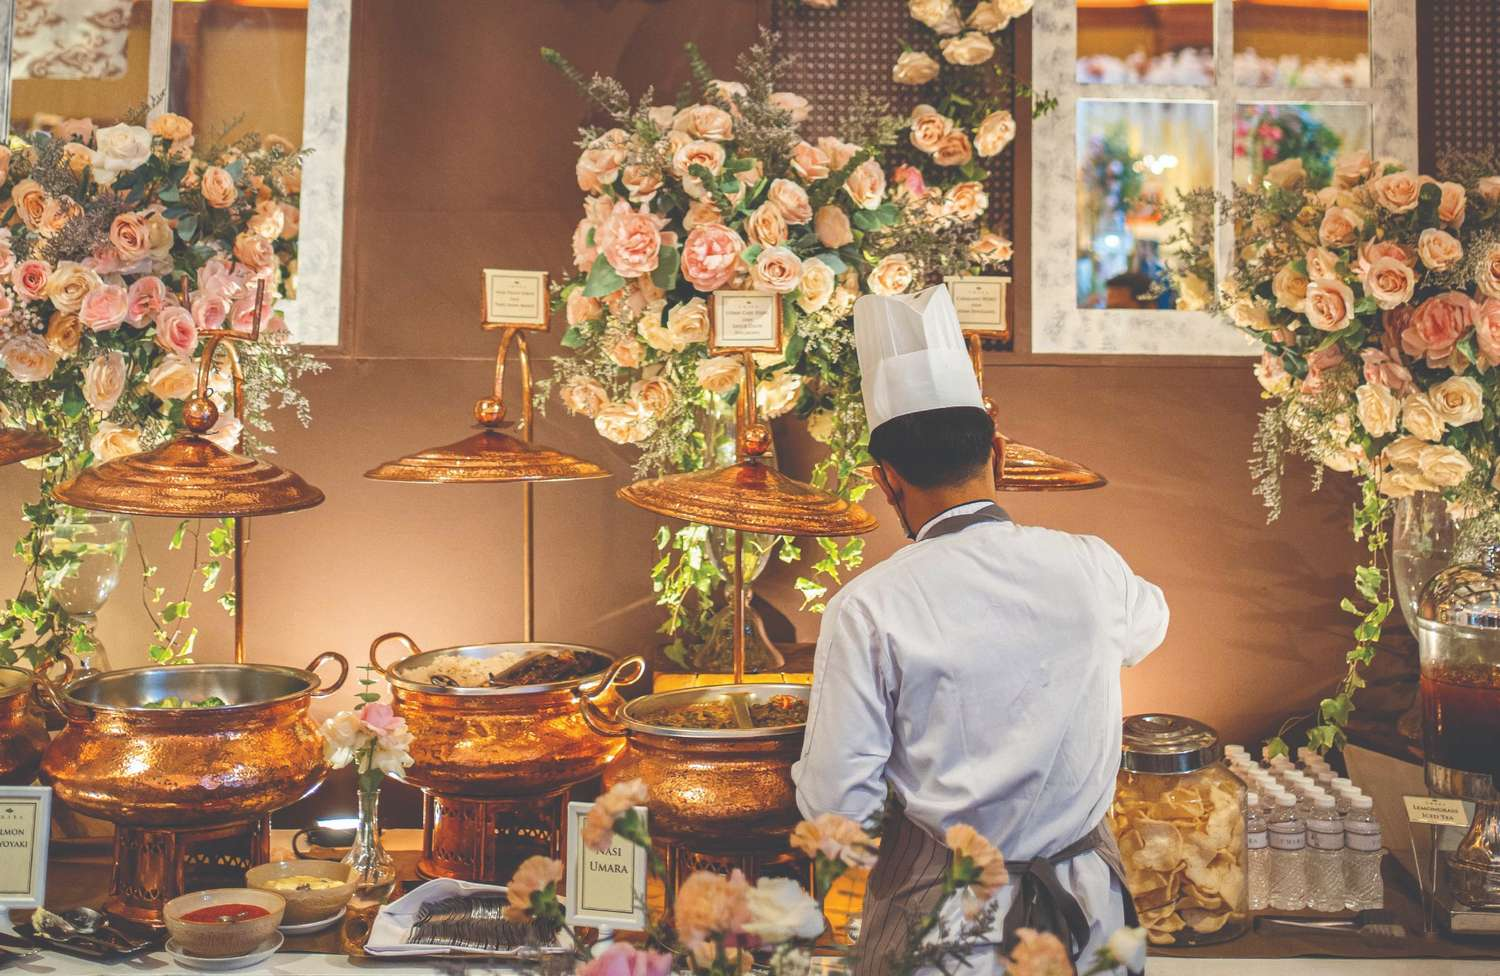
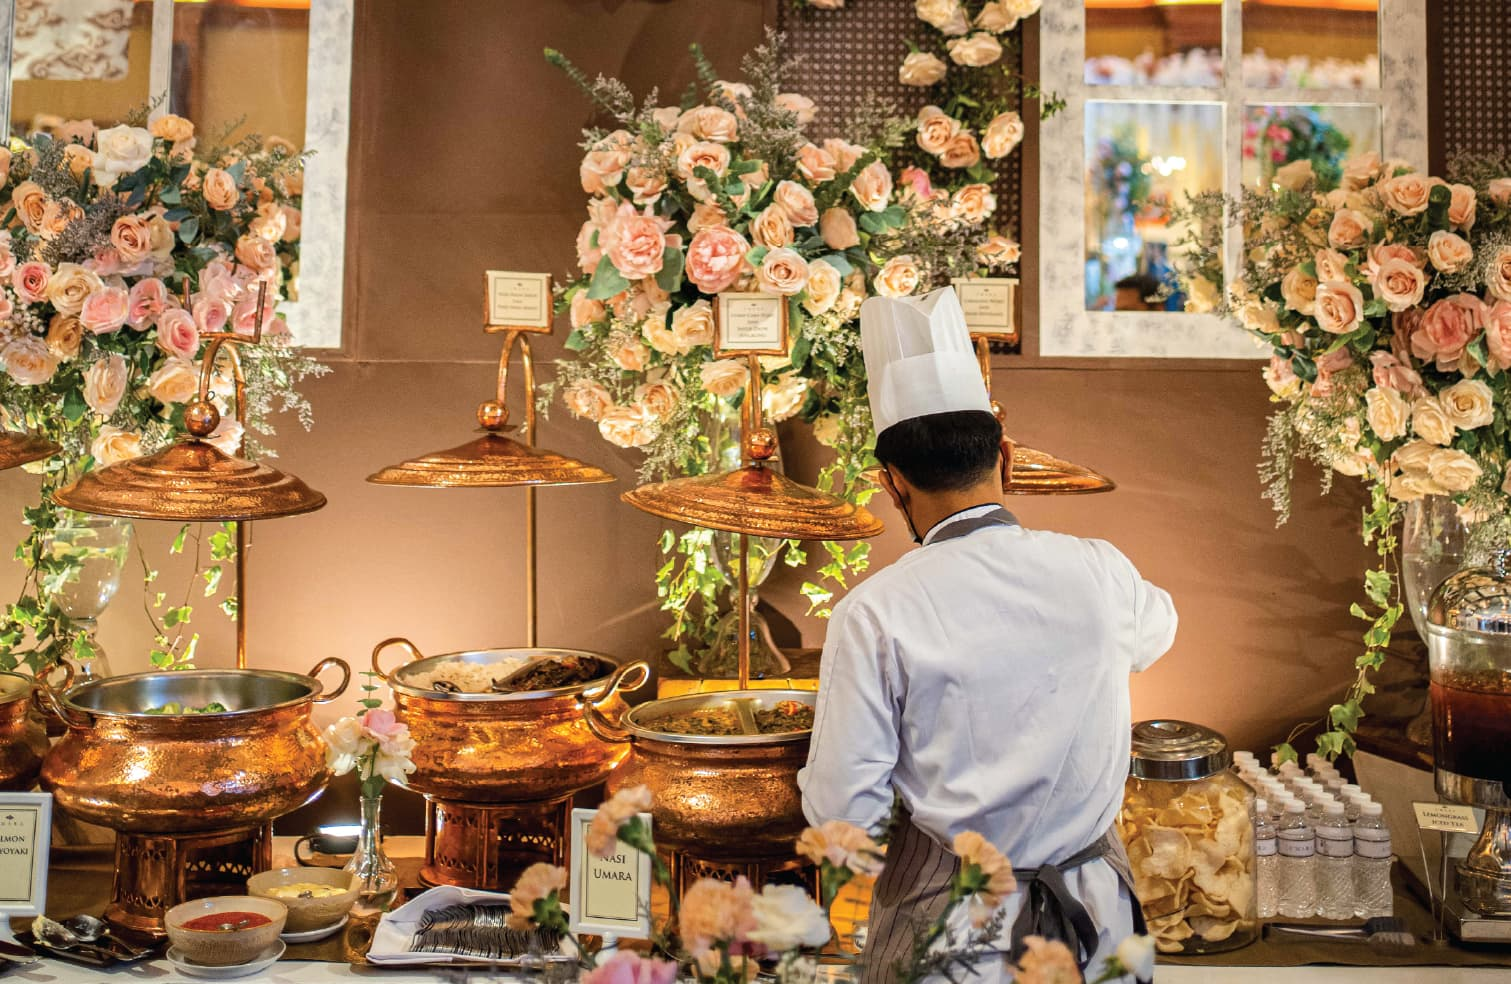
update images for website ucr

diff --git a/umara-catering/gallery-umara.html b/umara-catering/gallery-umara.html
@@ -271,21 +271,21 @@
             </div>
             <div class="container-wide">
                 <div class="columns-1 sm:columns-2 lg:columns-3 xl:columns-3 gap-4" data-gallery-group="asian">
-                    <div class="mb-4" style="break-inside: avoid"><img class="w-full h-auto object-cover" src="../public/assets/ucr/signature-dish/Canape banyak.JPG" alt="Asian 1"></div>
-                    <div class="mb-4" style="break-inside: avoid"><img class="w-full h-auto object-cover" src="../public/assets/ucr/signature-dish/Cheese wheel pasta.jpg" alt="Asian 2"></div>
-                    <div class="mb-4" style="break-inside: avoid"><img class="w-full h-auto object-cover" src="../public/assets/ucr/signature-dish/Chicken Teriyajki Ricle Bowl.jpg" alt="Asian 3"></div>
-                    <div class="mb-4" style="break-inside: avoid"><img class="w-full h-auto object-cover" src="../public/assets/ucr/signature-dish/Creps de Suzet.jpg" alt="Asian 4"></div>
-                    <div class="mb-4" style="break-inside: avoid"><img class="w-full h-auto object-cover" src="../public/assets/ucr/signature-dish/Empal Gentong.jpg" alt="Asian 5"></div>
-                    <div class="mb-4" style="break-inside: avoid"><img class="w-full h-auto object-cover" src="../public/assets/ucr/signature-dish/Es Oyen.jpg" alt="Asian 7"></div>
-                    <div class="mb-4" style="break-inside: avoid"><img class="w-full h-auto object-cover" src="../public/assets/ucr/signature-dish/Es-pisang-ijo.jpeg" alt="Asian 8"></div>
-                    <div class="mb-4" style="break-inside: avoid"><img class="w-full h-auto object-cover" src="../public/assets/ucr/signature-dish/Mix-bbq.jpg" alt="Asian 9"></div>
-                    <div class="mb-4" style="break-inside: avoid"><img class="w-full h-auto object-cover" src="../public/assets/ucr/signature-dish/Nasi Liwet Keprabon.png" alt="Asian 10"></div>
-                    <div class="mb-4" style="break-inside: avoid"><img class="w-full h-auto object-cover" src="../public/assets/ucr/signature-dish/Nasi Umara.jpg" alt="Asian 11"></div>
-                    <div class="mb-4" style="break-inside: avoid"><img class="w-full h-auto object-cover" src="../public/assets/ucr/signature-dish/Osokayaki.png" alt="Asian 12"></div>
-                    <div class="mb-4" style="break-inside: avoid"><img class="w-full h-auto object-cover" src="../public/assets/ucr/signature-dish/Pandan Telaga Aren.jpg" alt="Asian 13"></div>
-                    <div class="mb-4" style="break-inside: avoid"><img class="w-full h-auto object-cover" src="../public/assets/ucr/signature-dish/Roasted Duck Noodle.jpg" alt="Asian 14"></div>
-                    <div class="mb-4" style="break-inside: avoid"><img class="w-full h-auto object-cover" src="../public/assets/ucr/signature-dish/Salmon mayoyaki.png" alt="Asian 15"></div>
-                    <div class="mb-4" style="break-inside: avoid"><img class="w-full h-auto object-cover" src="../public/assets/ucr/signature-dish/zuppa-soup.jpg" alt="Asian 16"></div>
+                    <div class="mb-4" style="break-inside: avoid"><img class="w-full h-auto object-cover" src="../public/assets/ucr/signature-dish2/Canape banyak.JPG" alt="Asian 1"></div>
+                    <div class="mb-4" style="break-inside: avoid"><img class="w-full h-auto object-cover" src="../public/assets/ucr/signature-dish2/Cheese wheel pasta.jpg" alt="Asian 2"></div>
+                    <div class="mb-4" style="break-inside: avoid"><img class="w-full h-auto object-cover" src="../public/assets/ucr/signature-dish2/Chicken Teriyaki Rice Bowl.jpg" alt="Asian 3"></div>
+                    <div class="mb-4" style="break-inside: avoid"><img class="w-full h-auto object-cover" src="../public/assets/ucr/signature-dish2/Creps de Suzet.jpg" alt="Asian 4"></div>
+                    <div class="mb-4" style="break-inside: avoid"><img class="w-full h-auto object-cover" src="../public/assets/ucr/signature-dish2/Empal Gentong.jpg" alt="Asian 5"></div>
+                    <div class="mb-4" style="break-inside: avoid"><img class="w-full h-auto object-cover" src="../public/assets/ucr/signature-dish2/Es Oyen.jpg" alt="Asian 6"></div>
+                    <div class="mb-4" style="break-inside: avoid"><img class="w-full h-auto object-cover" src="../public/assets/ucr/signature-dish2/nasi liwet keprabon.jpg" alt="Asian 7"></div>
+                    <div class="mb-4" style="break-inside: avoid"><img class="w-full h-auto object-cover" src="../public/assets/ucr/signature-dish2/nasi umara.jpg" alt="Asian 8"></div>
+                    <div class="mb-4" style="break-inside: avoid"><img class="w-full h-auto object-cover" src="../public/assets/ucr/signature-dish2/osokoyaki.jpg" alt="Asian 9"></div>
+                    <div class="mb-4" style="break-inside: avoid"><img class="w-full h-auto object-cover" src="../public/assets/ucr/signature-dish2/pandan telaga aren.jpg" alt="Asian 10"></div>
+                    <div class="mb-4" style="break-inside: avoid"><img class="w-full h-auto object-cover" src="../public/assets/ucr/signature-dish2/Roasted Duck Noodle.jpg" alt="Asian 11"></div>
+                    <div class="mb-4" style="break-inside: avoid"><img class="w-full h-auto object-cover" src="../public/assets/ucr/signature-dish2/salmon mayoyaki.jpg" alt="Asian 12"></div>
+                    <div class="mb-4" style="break-inside: avoid"><img class="w-full h-auto object-cover" src="../public/assets/ucr/signature-dish2/zuppa soup.jpg" alt="Asian 13"></div>
+                    <div class="mb-4" style="break-inside: avoid"><img class="w-full h-auto object-cover"src="../public/assets/ucr/signature-dish2/Es-pisang-ijo.png" alt="Asian 14"></div>
+                    <div class="mb-4" style="break-inside: avoid"><img class="w-full h-auto object-cover"src="../public/assets/ucr/signature-dish2/mix-bbq.png" alt="Asian 15"></div>
                 </div>
             </div>
         </section>
@@ -418,6 +418,26 @@
         imgEl.addEventListener('touchstart', function(e){ if(!e.changedTouches || !e.changedTouches[0]) return; sx = e.changedTouches[0].clientX; });
         imgEl.addEventListener('touchend', function(e){ if(!e.changedTouches || !e.changedTouches[0]) return; var dx = e.changedTouches[0].clientX - sx; if(Math.abs(dx) > 30){ if(dx < 0) next(); else prev(); } });
         Array.from(root.querySelectorAll('[data-gallery-group] img')).forEach(function(i){ i.style.cursor = 'zoom-in'; });
+    })();
+    (function(){
+        var root = document.getElementById('photo-gallery');
+        if(!root) return;
+        Array.from(root.querySelectorAll('[data-gallery-group] > div')).forEach(function(container){
+            var img = container.querySelector('img');
+            if(!img) return;
+            var src = img.getAttribute('src') || '';
+            var name = src.split('/').pop();
+            try{ name = decodeURIComponent(name); }catch(e){}
+            name = name.replace(/\.[^.]+$/, '');
+            name = name.replace(/[_-]+/g, ' ').trim();
+            var title = name || (img.getAttribute('alt') || '');
+            if(!title) return;
+            container.style.position = 'relative';
+            var cap = document.createElement('div');
+            cap.className = 'absolute left-0 bottom-0 pointer-events-none bg-black/50 text-white px-3 py-2 text-sm sm:text-base';
+            cap.textContent = title;
+            container.appendChild(cap);
+        });
     })();
     </script>
 </body>

diff --git a/umara-catering/wedding-umara.html b/umara-catering/wedding-umara.html
@@ -267,7 +267,7 @@
         <section id="hero" class="hero-card">
             <div class="container-hero-fluid">
                 <div class="hero-media">
-                    <img src="../public/assets/ucr/UCR-WEB/wedding-hero-img.png" alt="Wedding" class="h-auto w-full">
+                    <img src="../public/assets/ucr/UCR-WEB/wedding-hero-img.jpg" alt="Wedding" class="h-auto w-full">
                 </div>
             </div>
             <div class="container-wide">
@@ -303,15 +303,15 @@
                 <div id="venueTrack" class="flex gap-4 transition-transform duration-500 ease-[cubic-bezier(.22,.61,.36,1)] will-change-transform">
                     <div class="flex-none w-[86vw] sm:w-[70vw] lg:w-[44vw]">
                         <div class="relative h-[56.25vw] sm:h-[40vw] lg:h-[28vw] overflow-hidden">
-                            <img class="absolute inset-0 w-full h-full object-cover transition-transform duration-500" src="../public/assets/vector/image-sample.png" alt="Venue 1">
+                            <img class="absolute inset-0 w-full h-full object-cover transition-transform duration-500" src="../public/assets/ucr/UCR-WEB/wedding/highlight-moments1.png" alt="Venue 1">
                         </div>
-                        <p class="text-gray-600 mt-2">Grand ballroom setup</p>
+                        <p class="text-gray-600 mt-2"><a href="#">📍 Menara Danareksa</a></p>
                     </div>
                     <div class="flex-none w-[86vw] sm:w-[70vw] lg:w-[44vw]">
                         <div class="relative h-[56.25vw] sm:h-[40vw] lg:h-[28vw] overflow-hidden">
-                            <img class="absolute inset-0 w-full h-full object-cover transition-transform duration-500" src="../public/assets/vector/image-sample.png" alt="Venue 2">
+                            <img class="absolute inset-0 w-full h-full object-cover transition-transform duration-500" src="../public/assets/ucr/UCR-WEB/wedding/highlight-moments2.png" alt="Venue 2">
                         </div>
-                        <p class="text-gray-600 mt-2">Intimate garden ceremony</p>
+                        <p class="text-gray-600 mt-2"><a href="#" target="_blank">📍 Musem Macan</a></p>
                     </div>
                     <div class="flex-none w-[86vw] sm:w-[70vw] lg:w-[44vw]">
                         <div class="relative h-[56.25vw] sm:h-[40vw] lg:h-[28vw] overflow-hidden">
@@ -348,11 +348,11 @@
             </div>
         </section>
 
-        <section id="wedding-venues" class="py-[72px] bg-[#e1d6a5]">
+        <section id="wedding-venues" class="py-[72px] bg-[#fffdee]">
             <div class="container-wide venue">
                 <div class="grid grid-cols-1 md:grid-cols-2 gap-8">
                     <div>
-                        <img src="../public/assets/vector/image-sample.png" alt="Wedding Venue" class="w-full h-auto rounded-lg shadow-lg object-cover">
+                        <img src="../public/assets/ucr/UCR-WEB/wedding/wedding-venue.png" alt="Wedding Venue" class="w-full h-auto rounded-lg shadow-lg object-cover">
                     </div>
                     <div>
                         <h3 class="title headline mb-4">Wedding Venues</h3>
@@ -369,7 +369,7 @@
                         wedding unfolds with sentiment, clarity, and effortless elegance.</p>
                     </div>
                     <div>
-                        <img src="../public/assets/vector/image-sample.png" alt="Wedding Venue" class="w-full h-auto rounded-lg shadow-lg object-cover">
+                        <img src="../public/assets/ucr/UCR-WEB/wedding/wedding-advisor.png" alt="Wedding Venue" class="w-full h-auto rounded-lg shadow-lg object-cover">
                     </div>
                 </div>
             </div>
@@ -477,10 +477,10 @@
   var i = L; // start at first of middle set
   var isAnimating = false;
   function setActive(){
-    items.forEach(function(el,idx){
+    items.forEach(function(el){
       var img = el.querySelector('img');
       if(!img) return;
-      img.style.transform = idx===i ? 'scale(2)' : 'scale(1)';
+      img.style.transform = 'scale(1)';
     });
   }
   function center(animated){

diff --git a/ptumaraciptarasa.html b/ptumaraciptarasa.html
@@ -151,10 +151,10 @@
                                 <img src="public/assets/ucr/authentic-recipes/Nasi-Umara-Horizontal.jpg" alt="Premium Ambiance">
                             </div>
                             <div class="slider-item">
-                                <img src="public/assets/ucr/UCR-WEB/pageoverviewslider1536x1024.jpg" alt="Wedding Ambiance">
+                                <img src="public/assets/ucr/UCR-WEB/wedding-hero-img.jpg" alt="Wedding Ambiance">
                             </div>
                             <div class="slider-item">
-                                <img src="public/assets/ucr/UCR-WEB/sectionslider31536x1024.jpg" alt="Meeting Ambiance">
+                                <img src="public/assets/ucr/UCR-WEB/mealbox experience 725x472-04.jpg" alt="Meeting Ambiance">
                             </div>
                             <div class="hero-overlay"></div>
                             <div class="hero-text">
@@ -214,7 +214,7 @@
                         </div>
                     </div>
                     <div class="card" id="meeting">
-                        <div class="card-media"><img src="public/assets/ucr/UCR-WEB/meeting experience 725x472-05.jpg" alt="Meeting"></div>
+                        <div class="card-media"><img src="public/assets/ucr/UCR-WEB/meeting experience 725x472-05.webp" alt="Meeting"></div>
                         <div class="card-body">
                             <h3 style="font-weight:700;color:#111827">Meeting</h3>
                             <p style="color:#6B7280;margin-top:6px">Professional meeting experiences with curated menus and seamless coordination.</p>
@@ -231,7 +231,7 @@
                         </div>
                     </div>
                     <div class="card" id="mealbox">
-                        <div class="card-media"><img src="public/assets/ucr/UCR-WEB/mealbox experience 725x472-04.jpg" alt="Mealbox"></div>
+                        <div class="card-media"><img src="public/assets/ucr/UCR-WEB/mealbox experience 725x472-04.webp" alt="Mealbox"></div>
                         <div class="card-body">
                             <h3 style="font-weight:700;color:#111827">Mealbox</h3>
                             <p style="color:#6B7280;margin-top:6px">High-quality meal solutions crafted for corporate needs and daily operations.</p>
@@ -256,15 +256,15 @@
                 <div class="slider" data-autoplay="true" data-interval="5000">
                     <div class="slider-stage">
                         <div class="slider-item active">
-                            <img src="public/assets/vector/image-sample.png" alt="Wedding Showcase">
+                            <img src="public/assets/ucr/showcase-1.jpg" alt="Wedding Showcase">
                             <div class="slider-caption">Elegant wedding setup with refined table styling.</div>
                         </div>
                         <div class="slider-item">
-                            <img src="public/assets/vector/image-sample.png" alt="Meeting Showcase">
+                            <img src="public/assets/ucr/showcase-2.jpg" alt="Meeting Showcase">
                             <div class="slider-caption">Corporate meeting service with curated menus.</div>
                         </div>
                         <div class="slider-item">
-                            <img src="public/assets/vector/image-sample.png" alt="Dining Showcase">
+                            <img src="public/assets/ucr/showcase-3.jpg" alt="Dining Showcase">
                             <div class="slider-caption">Private dining, tailored by our culinary team.</div>
                         </div>
                     </div>

diff --git a/umara-catering/mealbox-umara.html b/umara-catering/mealbox-umara.html
@@ -261,7 +261,7 @@
     <section id="hero">
         <div class="container-hero-fluid">
             <div class="hero-media">
-                <img src="../public/assets/vector/sample-image-wide.jpg" alt="Meeting" class="h-auto w-full">
+                <img src="../public/assets/ucr/UCR-WEB/Mealbox Hero 1920x550.jpg" alt="Meeting" class="h-auto w-full">
             </div>
         </div>
         <div class="container-wide">
@@ -277,10 +277,10 @@
             <h2 class="headline mb-6">Mealbox Menu</h2>
             <p class="text-gray-700 mb-8">Elegant selections crafted for meetings, gifting, and private events.</p>
             <div class="space-y-8">
-                <div class="border border-[#E1D5A6] bg-white p-4">
+                <div class="border border-[#E1D5A6] p-4">
                     <div class="grid grid-cols-1 md:grid-cols-2 gap-6 items-center">
                         <div class="relative h-0 pb-[66%] overflow-hidden">
-                            <img class="absolute inset-0 w-full h-full object-cover" src="../public/assets/vector/image-sample.png" alt="Classic Mealbox">
+                            <img class="absolute inset-0 w-full h-full object-cover" src="../public/assets/ucr/UCR-WEB/mealbox experience 725x472-04.jpg" alt="Classic Mealbox">
                         </div>
                         <div>
                             <h3 class="font-['Playfair_Display',serif] text-2xl text-[#0F1210]">Classic Mealbox</h3>
@@ -289,10 +289,10 @@
                     </div>
                 </div>
 
-                <div class="border border-[#E1D5A6] bg-white p-4">
+                <div class="border border-[#E1D5A6] p-4">
                     <div class="grid grid-cols-1 md:grid-cols-2 gap-6 items-center">
                         <div class="relative h-0 pb-[66%] overflow-hidden">
-                            <img class="absolute inset-0 w-full h-full object-cover" src="../public/assets/vector/image-sample.png" alt="Premium Bento">
+                            <img class="absolute inset-0 w-full h-full object-cover" src="../public/assets/ucr/UCR-WEB/mealbox experience 725x472-04.jpg" alt="Premium Bento">
                         </div>
                         <div>
                             <h3 class="font-['Playfair_Display',serif] text-2xl text-[#0F1210]">Premium Bento</h3>
@@ -301,10 +301,10 @@
                     </div>
                 </div>
 
-                <div class="border border-[#E1D5A6] bg-white p-4">
+                <div class="border border-[#E1D5A6] p-4">
                     <div class="grid grid-cols-1 md:grid-cols-2 gap-6 items-center">
                         <div class="relative h-0 pb-[66%] overflow-hidden">
-                            <img class="absolute inset-0 w-full h-full object-cover" src="../public/assets/vector/image-sample.png" alt="Vegetarian Delight">
+                            <img class="absolute inset-0 w-full h-full object-cover" src="../public/assets/ucr/UCR-WEB/mealbox experience 725x472-04.jpg" alt="Vegetarian Delight">
                         </div>
                         <div>
                             <h3 class="font-['Playfair_Display',serif] text-2xl text-[#0F1210]">Vegetarian Delight</h3>

diff --git a/ptlaukkitabersama.html b/ptlaukkitabersama.html
@@ -983,7 +983,7 @@
                                     å</path>
                                 </svg>
                             </div>
-                            <h3 class="text-2xl font-bold text-[#8B1C3D]">Retort</h3>
+                            <h3 class="text-2xl font-bold text-[#8B1C3D]">Retort B2B & Export Manufacturing</h3>
                         </div>
                         <p class="text-[#8B1C3D] mb-6 leading-relaxed">
                             Comprehensive B2B frozen and retort packaged Work-In-Progress & ready to eat finished goods for
@@ -1040,7 +1040,7 @@
                                         d="M20.25 6.375c0 2.278-3.694 4.125-8.25 4.125S3.75 8.653 3.75 6.375m16.5 0c0-2.278-3.694-4.125-8.25-4.125S3.75 4.097 3.75 6.375m16.5 0v11.25c0 2.278-3.694 4.125-8.25 4.125s-8.25-1.847-8.25-4.125V6.375m16.5 0v3.75m-16.5-3.75v3.75m16.5 0v3.75C20.25 16.153 16.556 18 12 18s-8.25-1.847-8.25-4.125v-3.75m16.5 0c0 2.278-3.694 4.125-8.25 4.125s-8.25-1.847-8.25-4.125" />
                                 </svg>
                             </div>
-                            <h3 class="text-2xl font-bold text-[#8B1C3D]">WIP Manufacturing for Affiliates</h3>
+                            <h3 class="text-2xl font-bold text-[#8B1C3D]">WIP Frozen B2B & Export Manufacturing</h3>
                         </div>
                         <p class="text-[#8B1C3D] mb-6 leading-relaxed">
                             Supporting sister companies within Umara Grou p to produce Work-In-Progress modular food

diff --git a/dist/output.css b/dist/output.css
@@ -1565,6 +1565,9 @@
       background-color: color-mix(in oklab, var(--color-white) 60%, transparent) !important;
     }
   }
+  .bg-\[\#\#e0d6a4\] {
+    background-color: ##e0d6a4;
+  }
   .bg-\[\#3a4024\] {
     background-color: #3a4024;
   }
@@ -1637,8 +1640,17 @@
   .bg-\[\#FCF0CE\] {
     background-color: #FCF0CE;
   }
+  .bg-\[\#d4ba13\] {
+    background-color: #d4ba13;
+  }
+  .bg-\[\#dcd8bd\] {
+    background-color: #dcd8bd;
+  }
   .bg-\[\#debe9d\] {
     background-color: #debe9d;
+  }
+  .bg-\[\#e0d6a4\] {
+    background-color: #e0d6a4;
   }
   .bg-\[\#e1d6a5\] {
     background-color: #e1d6a5;
@@ -1646,8 +1658,17 @@
   .bg-\[\#e3d7c3\] {
     background-color: #e3d7c3;
   }
+  .bg-\[\#eee8c1\] {
+    background-color: #eee8c1;
+  }
+  .bg-\[\#f6f3e5\] {
+    background-color: #f6f3e5;
+  }
   .bg-\[\#fffbe8\] {
     background-color: #fffbe8;
+  }
+  .bg-\[\#fffdee\] {
+    background-color: #fffdee;
   }
   .bg-amber-50 {
     background-color: var(--color-amber-50);

diff --git a/umara-catering/meeting-umara.html b/umara-catering/meeting-umara.html
@@ -339,7 +339,7 @@
             </div>
         </section>
 
-        <section id="meeting-packages" class="py-[72px] bg-[#e1d6a5]">
+        <section id="meeting-packages" class="py-[72px] bg-[#fffdee]">
             <div class="container-wide">
             <h1 class="py-5 text-6xl font-playfair">Meeting Services</h1>
                 <div class="grid grid-cols-1 sm:grid-cols-2 lg:grid-cols-[50%_25%_25%] gap-6 items-stretch mb-10">
